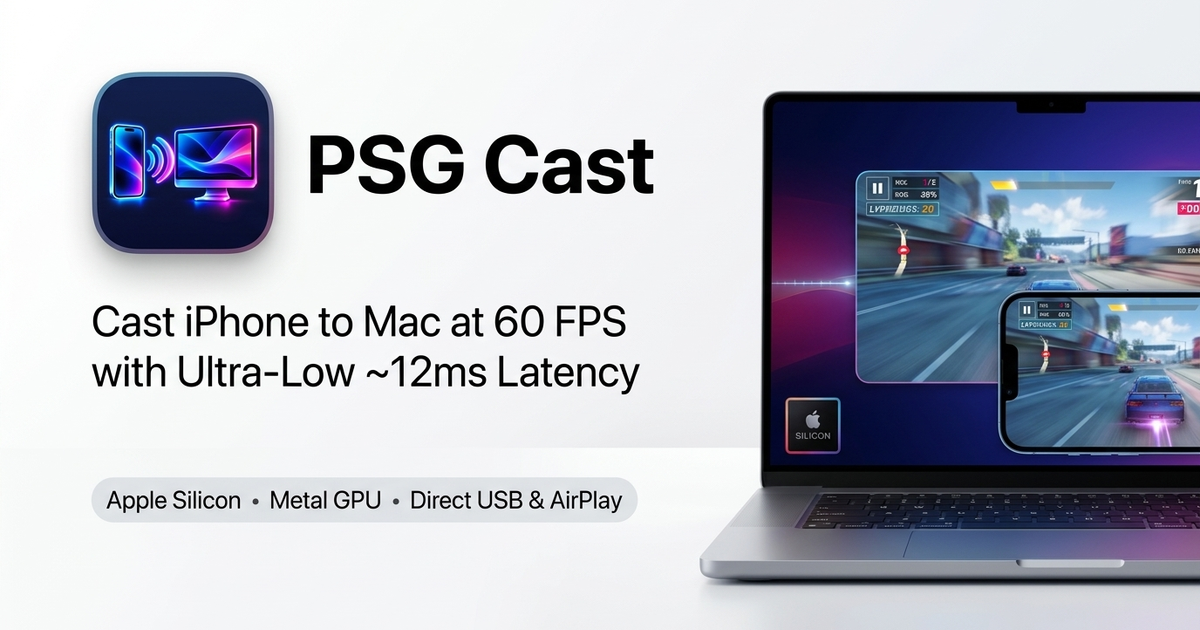
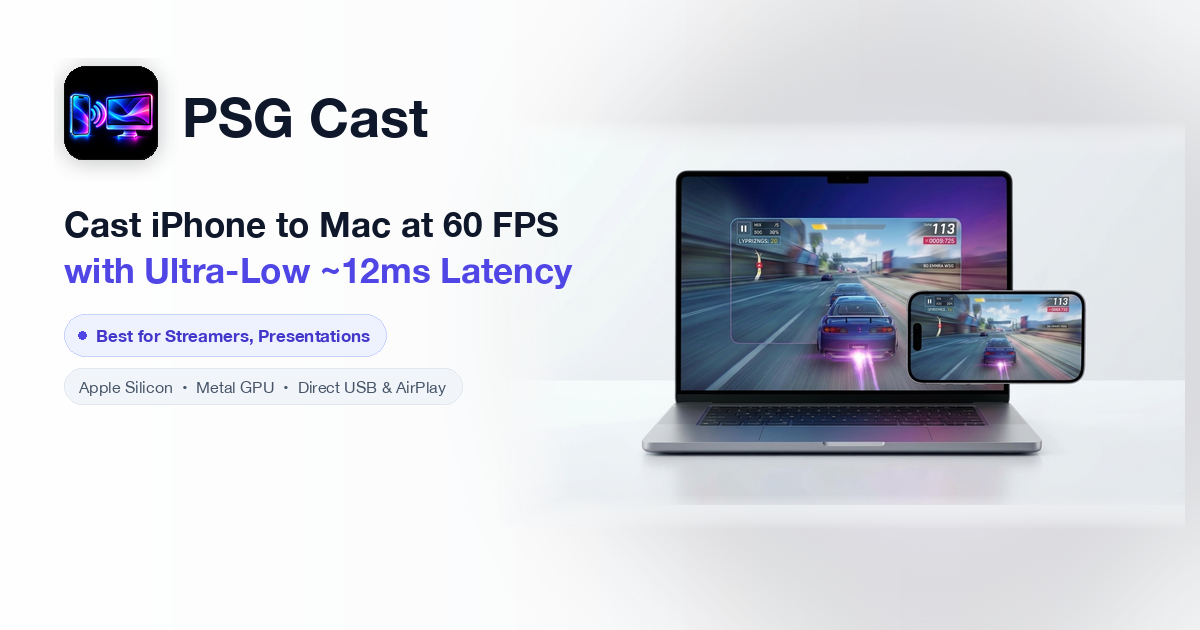
feat(og): add 'Best for Streamers, Presentations' text and uncropped showcase render to OG image

diff --git a/index.html b/index.html
@@ -28,13 +28,13 @@
     <meta property="og:type" content="website" />
     <meta property="og:url" content="https://psgcast.online" />
     <meta property="og:title" content="PSG Cast — Best DouWan Alternative | Low Latency iPhone to Mac Screen Mirroring" />
-    <meta property="og:description" content="Cast iPhone & iPad to Mac at 60 FPS with ultra-low ~12ms latency. Native Metal GPU pipeline, dual USB/AirPlay transport, OBS Clean Capture mode, and zero cloud telemetry. The #1 alternative to DouWan & AirServer." />
+    <meta property="og:description" content="Cast iPhone & iPad to Mac at 60 FPS with ultra-low ~12ms latency. Best for streamers and presentations with native Metal GPU pipeline, dual USB/AirPlay transport, and OBS Clean Capture mode." />
     <meta property="og:image" content="https://psgcast.online/og-image.jpg" />
     <meta property="og:image:secure_url" content="https://psgcast.online/og-image.jpg" />
     <meta property="og:image:type" content="image/jpeg" />
     <meta property="og:image:width" content="1200" />
     <meta property="og:image:height" content="630" />
-    <meta property="og:image:alt" content="PSG Cast — Best DouWan Alternative for iPhone to Mac Screen Mirroring" />
+    <meta property="og:image:alt" content="PSG Cast — Best for Streamers, Presentations | iPhone to Mac Screen Mirroring at 60 FPS" />
     <meta property="og:locale" content="en_US" />
 
     <!-- Twitter / X Card Markup (Requires standard name="twitter:..." tags) -->
@@ -43,13 +43,13 @@
     <meta name="twitter:creator" content="@alok8feb" />
     <meta name="twitter:url" content="https://psgcast.online" />
     <meta name="twitter:title" content="PSG Cast — Best DouWan Alternative | Low Latency iPhone to Mac Screen Mirroring" />
-    <meta name="twitter:description" content="Mirror iPhone screen to Mac at 60 FPS with ~12ms latency. Native Apple Metal GPU rendering, USB & Wi-Fi AirPlay, OBS ready. Fast, private, no virtual drivers." />
+    <meta name="twitter:description" content="Mirror iPhone screen to Mac at 60 FPS with ~12ms latency. Best for streamers, presentations, and gaming. Native Apple Metal GPU rendering, USB & Wi-Fi AirPlay, OBS ready." />
     <meta name="twitter:image" content="https://psgcast.online/og-image.jpg" />
-    <meta name="twitter:image:alt" content="PSG Cast — Best DouWan Alternative for iPhone to Mac Screen Mirroring" />
+    <meta name="twitter:image:alt" content="PSG Cast — Best for Streamers, Presentations | iPhone to Mac Screen Mirroring at 60 FPS" />
 
     <!-- Schema.org / Google / Search Snippet Image Markup -->
     <meta itemprop="name" content="PSG Cast — Best DouWan Alternative | Low Latency iPhone to Mac Screen Mirroring" />
-    <meta itemprop="description" content="Cast iPhone & iPad to Mac at 60 FPS with ultra-low ~12ms latency. Native Apple Metal GPU rendering, USB & Wi-Fi AirPlay, OBS ready." />
+    <meta itemprop="description" content="Cast iPhone & iPad to Mac at 60 FPS with ultra-low ~12ms latency. Best for streamers, presentations, and gaming." />
     <meta itemprop="image" content="https://psgcast.online/og-image.jpg" />
 
     <!-- Favicon & App Icons (Multi-size ICO & Crisp PNGs) -->
